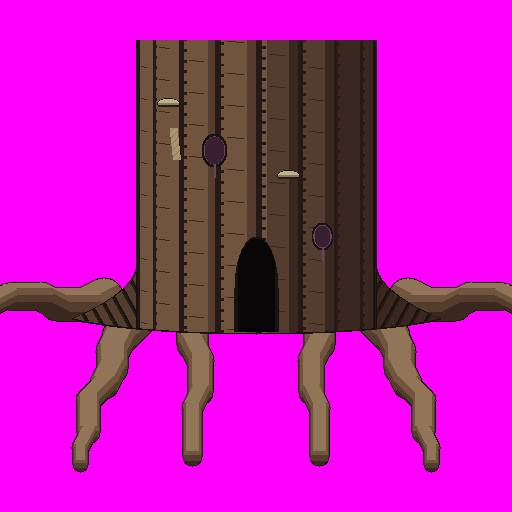
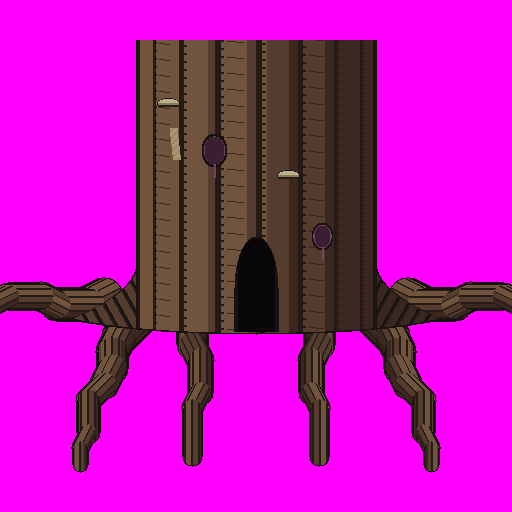
v0.14.0 art: bark-textured roots and clamps that wrap all the way round
Caleb's review: the roots now carry the trunk's bark (same colors, lit from
the top-left, grooves running along each root), and the Vael clamps are rings
sized to their root that wrap fully around it, with rounded ends and shading.
Three more clamps sit on the roots running toward you (seven in all). Trunk
bark repeats every 16 px (a crack on every other plate) to make room: the tree
now uses 722 of its 724 tile slots.

diff --git a/rootflow/tools/make_art.py b/rootflow/tools/make_art.py
@@ -1324,7 +1324,7 @@ BARK_ORDER = ["bark0", "bark1"]
 # ---- the Great Tree (v0.14): two 512 x 512 layers over its whole region ----
 # tree_trunk.png (under the characters): a huge trunk, ~240 px wide, shaded like a cylinder
 #   (lit from the left, grooves bunching toward the edges) so it stands upright, with a flared,
-#   curved base and a dark opening at its foot. Its bark repeats every 32 px down the straight
+#   curved base and a dark opening at its foot. Its bark repeats every 16 px down the straight
 #   part, so most tiles repeat.
 # canopy.png (over the characters, mostly solid): thick limbs, tapered and shaded (light on top),
 #   spreading over the top and down both sides. Strokes run at slopes 0, 1/2, 1, 2 from points on
@@ -1364,20 +1364,20 @@ def trunk_bottom(x):
 
 def bark_color(x, y):
     """Bark on a cylinder of radius TRUNK_HALF: tone from the light, grooves from the angle.
-    Depends on y only through y % 32, so the straight trunk repeats."""
+    Depends on y only through y % 16, so the straight trunk repeats."""
     import math
     u = max(-1.0, min(1.0, (x - TREE_CX) / TRUNK_HALF))
     a = math.asin(u)                                  # angle around the trunk
     light = 0.62 - 0.42 * u - 0.18 * u * u
     col = a * 9 / math.pi + 9                         # grooves, closer together toward the edges
     g, ci = col % 1, int(col)
-    yy = y % 32
-    if g < 0.14 or (g < 0.22 and (yy + ci * 7) % 11 < 3):
+    yy = y % 16
+    if g < 0.14 or (g < 0.22 and (yy + ci * 5) % 8 < 2):
         return 5                                        # a groove, ragged at the edges
     if abs(u) > 0.97:
         return 1
-    cy = (ci * 13) % 32                                 # one short, slanted crack per plate
-    if 0.3 < g < 0.7 and yy == (cy + int(g * 4)) % 32:
+    cy = (ci * 7) % 16                                  # a short, slanted crack on every other plate
+    if ci % 2 == 0 and 0.3 < g < 0.7 and yy == (cy + int(g * 4)) % 16:
         return 2
     if g > 0.78:
         light -= 0.18                                   # each plate darkens toward its groove
@@ -1389,6 +1389,10 @@ def bark_color(x, y):
 # Roots (left half; the right half is its mirror image): grid points from the base outward.
 # Each: (points, width at the base, width at the end). Ends that point down get a root tip tile
 # on the map (ROOT_TIPS); the clamps sit on the first root (CLAMP_SPOTS, in pixels).
+def mirror_x(x):
+    return 511 - x
+
+
 def root_path(x, y, moves):
     """Grid points from (x, y) by moves (dx, dy, steps): each step is (dx, dy) * 8 pixels."""
     pts = [(x, y)]
@@ -1405,15 +1409,18 @@ ROOTS = [   # winding: each turns between neighboring slopes
     (root_path(192, 328, [(0, 2, 1), (1, 2, 1), (0, 2, 2), (-1, 2, 1), (0, 2, 3)]), 30, 12),
 ]
 CLAMP_SPOTS = [(64, 304), (24, 296)]           # left side, on the first root; mirrored for the right
+# Clamps on the roots that run toward you (Caleb, v0.14): (x, y) on a vertical run.
+FRONT_CLAMPS = [(88, 416), (200, 376), (311, 376)]
+# Every clamp: (x, y, band) where band "v" crosses a sideways root and "h" a root running down.
+ALL_CLAMPS = ([(x, y, "v") for x, y in CLAMP_SPOTS] + [(mirror_x(x), y, "v") for x, y in CLAMP_SPOTS]
+              + [(x, y, "h") for x, y in FRONT_CLAMPS])
 
 
-def mirror_x(x):
-    return 511 - x
-
-
-def stroke(px, pts, w0, w1, colors, S=512):
+def stroke(px, pts, w0, w1, colors, S=512, bark=False):
     """A thick path through grid points, tapering from w0 to w1, shaded light on top. colors:
-    (outline, dark, mid, light, highlight)."""
+    (outline, dark, mid, light, highlight). bark=True (roots): the trunk's bark instead, lit from
+    the top-left like the trunk, with grooves running along the root (they depend only on the
+    distance across the root, so a straight run still repeats)."""
     out, dark, mid, light, hi = colors
     segs = list(zip(pts, pts[1:]))
     total = sum(max(abs(b[0] - a[0]), abs(b[1] - a[1])) for a, b in segs) or 1
@@ -1421,6 +1428,9 @@ def stroke(px, pts, w0, w1, colors, S=512):
         done = 0
         for (x0, y0), (x1, y1) in segs:
             n = max(abs(x1 - x0), abs(y1 - y0)) or 1
+            ln = ((x1 - x0) ** 2 + (y1 - y0) ** 2) ** 0.5 or 1
+            nx, ny = -(y1 - y0) / ln, (x1 - x0) / ln       # across the root
+            facing = nx * -0.6 + ny * -0.8                 # how much that side faces the light
             for t in range(n + 1):
                 x = x0 + (x1 - x0) * t // n
                 y = y0 + (y1 - y0) * t // n
@@ -1435,6 +1445,17 @@ def stroke(px, pts, w0, w1, colors, S=512):
                         if outline:
                             if px[yy][xx] == 0:
                                 px[yy][xx] = out
+                        elif bark:
+                            o = (xx - x) * nx + (yy - y) * ny
+                            v = o / max(1.0, r)
+                            b = 0.56 + 0.44 * v * facing - 0.3 * v * v
+                            if abs(v) > 0.9:
+                                c = 1
+                            elif (o + 70) % 7 < 1.3:
+                                c = 5                              # a groove along the root
+                            else:
+                                c = 6 if b > 0.86 else 4 if b > 0.58 else 3 if b > 0.32 else 2
+                            px[yy][xx] = c
                         else:
                             v = (yy - y) / max(1.0, r)
                             px[yy][xx] = hi if v < -0.62 else light if v < -0.15 else mid if v < 0.45 else dark
@@ -1468,7 +1489,7 @@ def make_trunk():
     px = [[0] * S for _ in range(S)]
     rootc = (1, 2, 3, 4, 6)
     for pts, w0, w1 in ROOTS:                            # roots first, under the trunk's base
-        stroke(px, pts, w0, w1, rootc)
+        stroke(px, pts, w0, w1, rootc, bark=True)
     for y in range(S):                                   # the right half mirrors the left
         for x in range(256):
             px[y][mirror_x(x)] = px[y][x]
@@ -1512,21 +1533,42 @@ def make_trunk():
 
 
 def make_clamp():
-    """A Vael iron clamp (16 x 32 sprite) that sits across a root; Pebble breaks it."""
-    pal = [(255, 0, 255), (24, 22, 24), (84, 88, 96), (128, 132, 140), (176, 180, 186), (150, 72, 40),
-           (214, 120, 60)] + [(0, 0, 0)] * 9
-    img = Image.new("P", (16, 32), 0)
+    """The Vael iron clamps (Pebble breaks them): one 32 x 32 sprite per clamp in ALL_CLAMPS, side
+    by side. Each ring is sized to its root (measured on art/tree_trunk.png): it wraps all the way
+    around, a little wider than the root, with rounded ends, shaded as it turns (lit top-left)."""
+    pal = [(255, 0, 255), (24, 22, 24), (70, 74, 82), (110, 114, 124), (158, 162, 170), (204, 206, 210),
+           (150, 72, 40), (214, 120, 60)] + [(0, 0, 0)] * 8
+    trunk = Image.open(os.path.join(ART, "tree_trunk.png"))
+    img = Image.new("P", (32 * len(ALL_CLAMPS), 32), 0)
     img.putpalette([c for rgb in pal for c in rgb])
-    for y in range(2, 30):
-        for x in range(3, 13):
-            edge = x in (3, 12) or y in (2, 29)
-            c = 1 if edge else 4 if x == 5 else 3 if x < 9 else 2
-            if not edge and (x * 3 + y * 5) % 11 == 0:
-                c = 5                                     # rust
-            img.putpixel((x, y), c)
-    for y in (6, 16, 25):
-        for x in (6, 9):
-            img.putpixel((x, y), 6)                       # rivets
+    for i, (x, y, band) in enumerate(ALL_CLAMPS):
+        dx, dy = (0, 1) if band == "v" else (1, 0)         # measure across the root
+        a = b = 0
+        while trunk.getpixel((x - dx * (a + 1), y - dy * (a + 1))):
+            a += 1
+        while trunk.getpixel((x + dx * (b + 1), y + dy * (b + 1))):
+            b += 1
+        half = (a + b) / 2 + 2                             # the ring reaches past the root's edges
+        mid = (b - a) / 2
+        for py in range(32):
+            for pxx in range(32):
+                along, across = (pxx - 16, py - 16 - mid) if band == "v" else (py - 16, pxx - 16 - mid)
+                if abs(along) > 5:
+                    continue
+                reach = half - (along / 5) ** 2 * 1.6          # rounded ends: the ring curves away
+                if abs(across) > reach:
+                    continue
+                edge = abs(along) > 4 or abs(across) > reach - 1
+                t = across / half                              # -1 .. 1 around the root
+                light = 0.62 - 0.5 * t - 0.25 * along / 5
+                c = 1 if edge else 5 if light > 0.95 else 4 if light > 0.7 else 3 if light > 0.42 else 2
+                if not edge and (pxx * 3 + py * 5 + i) % 13 == 0:
+                    c = 6                                      # rust
+                img.putpixel((32 * i + pxx, py), c)
+        for k in (-0.55, 0.0, 0.55):                           # rivets down the ring
+            rx, ry = (16, int(16 + mid + k * half)) if band == "v" else (int(16 + mid + k * half), 16)
+            if 0 <= rx < 32 and 0 <= ry < 32:
+                img.putpixel((32 * i + rx, ry), 7)
     return img
 
 

diff --git a/rootflow/tools/build_data.py b/rootflow/tools/build_data.py
@@ -43,7 +43,7 @@ WEST_GATE_ROWS = (12, 13, 14)      # valley x=0 <-> the Great Tree's region x=31
 # The Great Tree (west): Bark's quest pieces, placed on the roots drawn by make_art.py (v0.14).
 # Clamps are sprites sitting on the side roots (pixel spots); under each, a solid CLAMP cell.
 import make_art as _art  # noqa: E402
-CLAMP_PX = [(x, y) for x, y in _art.CLAMP_SPOTS] + [(_art.mirror_x(x), y) for x, y in _art.CLAMP_SPOTS]
+CLAMP_PX = [(x, y) for x, y, _band in _art.ALL_CLAMPS]   # one 32x32 sprite each, in this order
 CLAMPS = [(x // 16, y // 16) for x, y in CLAMP_PX]
 ROOT_TIPS = []                                       # one cell past each root that ends pointing down
 for _pts, _w0, _w1 in _art.ROOTS:
@@ -596,11 +596,16 @@ def main():
     # Sprite VRAM layout in 8x8 tiles; main.c uses these offsets.
     sheets = [("PLAYER", player, 32), ("SPROUT", sprout, 16), ("FX", fx, 16),
               ("RIPPLE", ripple, 16), ("PEBBLE", pebble, 16), ("BREEZE", breeze, 16),
-              ("PEEK", sprout_peek(terrain, sprout), 16), ("BARK", bark, 16), ("CLAMP", clamp, 32)]
+              ("PEEK", sprout_peek(terrain, sprout), 16), ("BARK", bark, 16)]
     sprite_words, tile_defs = [], []
     for name, img, cell_h in sheets:
         tile_defs.append(f"#define TILE_{name} {len(sprite_words) // 8}")
         sprite_words += strip_cells(img, cell_h)
+    tile_defs.append(f"#define TILE_CLAMP {len(sprite_words) // 8}")   # 32x32 frames: 4 x 4 tiles each
+    for i in range(clamp.width // 32):
+        for ty in range(4):
+            for tx in range(4):
+                sprite_words += tile_words(clamp, i * 32 + tx * 8, ty * 8)
     pal_ripple = palette_of(ripple)
     pal_pebble = palette_of(pebble)
     pal_breeze = palette_of(breeze)

diff --git a/rootflow/src/main.c b/rootflow/src/main.c
@@ -430,7 +430,7 @@ static void oam_flush(void) {
 #define OAM_SPARKLE 11
 #define OAM_GLOW    12
 #define OAM_CURSOR  13
-#define OAM_CLAMP   14  // 14..14+NUM_CLAMPS-1: Vael clamps on the Great Tree's roots
+#define OAM_CLAMP   14  // 14..14+NUM_CLAMPS-1 (7): Vael clamps on the Great Tree's roots
 
 // ---------- game state ----------
 static s32 px, py, pdir, pstep;         // player top-left of the 16x16 feet cell (pixels), facing, walk step
@@ -1994,10 +1994,15 @@ static void draw_sprites(void) {
     // Vael clamps on the Great Tree's roots: shown while their cell is still a CLAMP.
     for (s32 i = 0; i < NUM_CLAMPS; i++) {
         u8 t = maps[WEST][(clamp_px_y[i] >> 4) * MAP_W + (clamp_px_x[i] >> 4)];
-        if (cur_area == WEST && t == CLAMP)
-            obj_set(OAM_CLAMP + i, clamp_px_x[i] - 8 - cam_x, clamp_px_y[i] - 16 - cam_y, TILE_CLAMP, 0, PAL_CLAMP, 1);
-        else
+        s32 x = clamp_px_x[i] - 16 - cam_x, y = clamp_px_y[i] - 16 - cam_y;
+        if (cur_area == WEST && t == CLAMP && x > -32 && x < SCREEN_W && y > -32 && y < SCREEN_H) {
+            u16 *o = &oam_shadow[(OAM_CLAMP + i) * 4];                // a 32x32 sprite (square, size 2)
+            o[0] = (y & 0xFF);
+            o[1] = (x & 0x1FF) | (2 << 14);
+            o[2] = (TILE_CLAMP + i * 16) | (1 << 10) | (PAL_CLAMP << 12);
+        } else {
             sprite_hide(OAM_CLAMP + i);
+        }
     }
 
     // Build preview frame on the faced tile.
